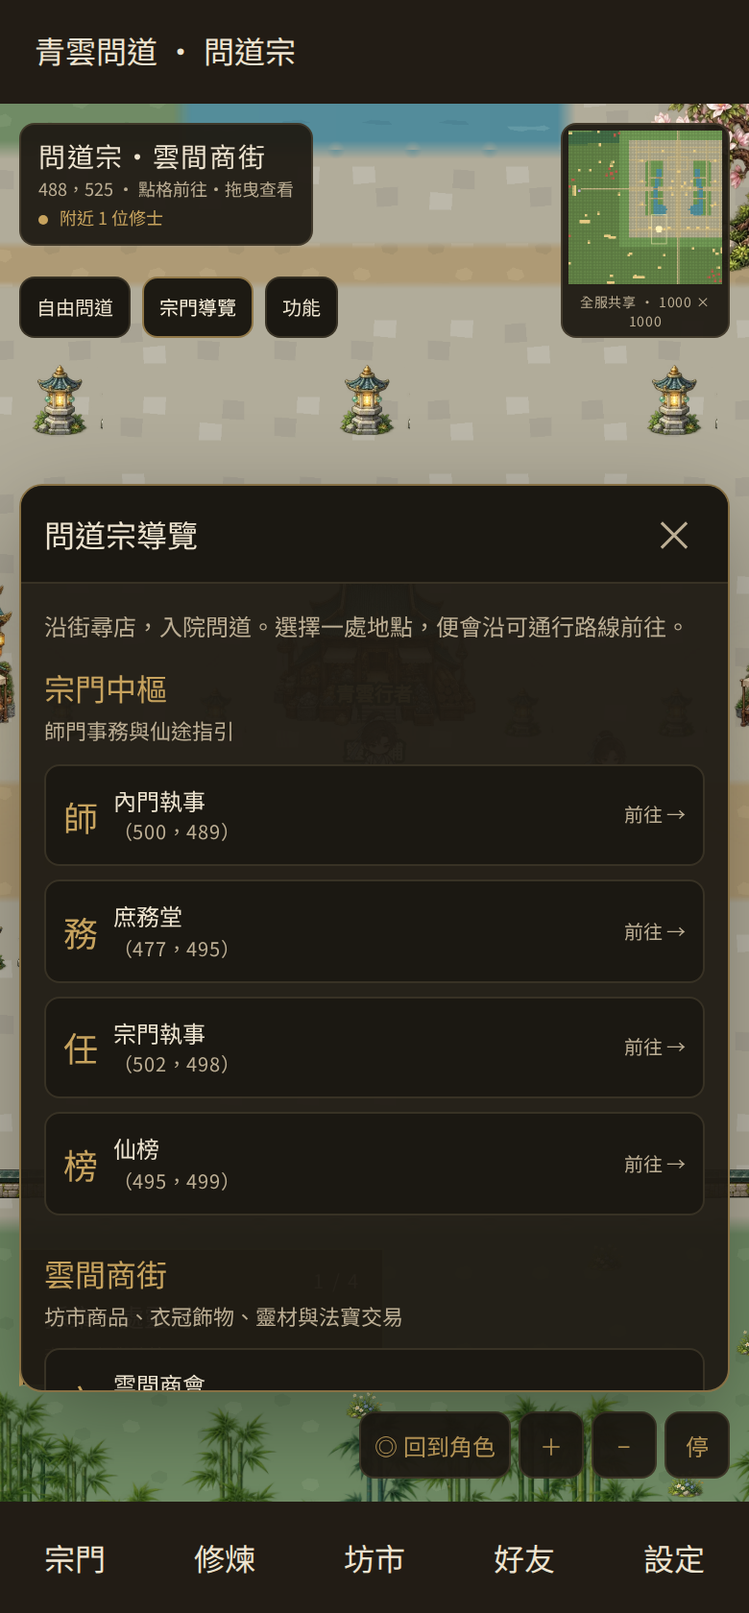
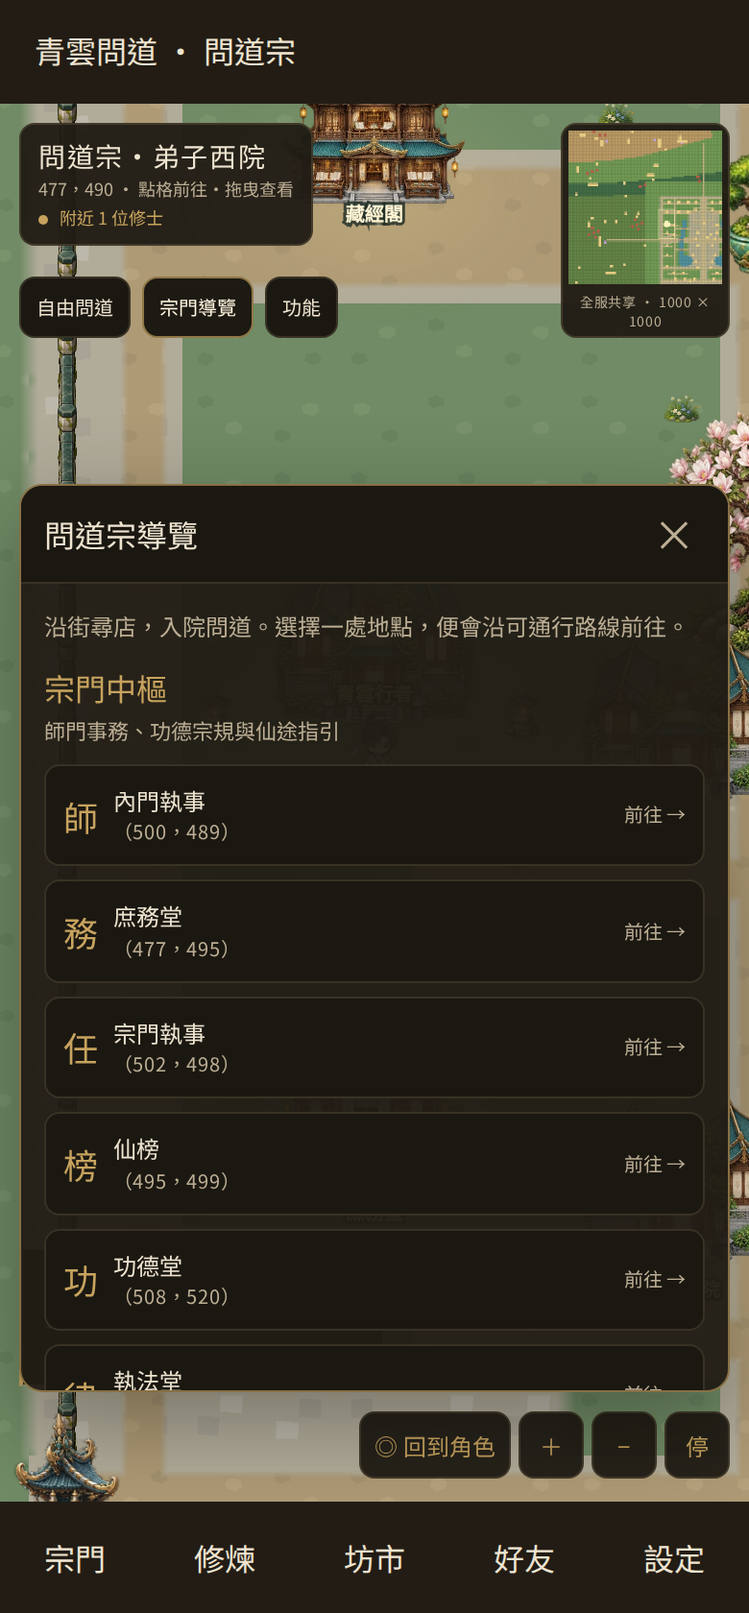
feat(world): complete sect services and compact residential courts
Add medical, merit, production and heritage facilities with real service entries. Compact the sect to 55x55 tiles and fill empty courts with 24 disciple houses, connected door paths and landscaped lawns. Preserve the main square, four gates, streams and original service locations.

Validation: 1,890 tests passed; desktop, 390px and 320px browser checks cover shop filters, medical and merit arrivals, commissions, and housing services. Uploaded source and review images match the tested local tree exactly.

diff --git a/public/world-simulator.html b/public/world-simulator.html
@@ -15,7 +15,7 @@
   const SIZE=1000,CHUNK_SIZE=32,CHUNK_COUNT=Math.ceil(SIZE/CHUNK_SIZE),STEP_MS=220,VISION_RADIUS=15;
   const GENERATOR_VERSION='qingyun-seeded-v2',DEFAULT_SEED='qingyun-2026';
   const SPAWN=Object.freeze({x:Math.floor(SIZE/2),y:Math.floor(SIZE/2)}),DIRS=Object.freeze([[0,1],[1,0],[0,-1],[-1,0]]);
-  const CITY_RADIUS=30,SAFE_RADIUS=36,OUTSKIRTS=Object.freeze({x:SPAWN.x+44,y:SPAWN.y-64,w:48,h:48});
+  const CITY_RADIUS=27,SAFE_RADIUS=36,OUTSKIRTS=Object.freeze({x:SPAWN.x+44,y:SPAWN.y-64,w:48,h:48});
   // Shared architectural footprints use tile coordinates; painted roofs and
   // canopies may overhang them. Existing functional buildings keep their IDs
   // and positions, so saved interactions still lead to the same doors.
@@ -40,17 +40,42 @@
     {id:'disciple-residence',name:'弟子居所',dx:-23,dy:9,artCell:7,entry:'residence',icon:'居',description:'整理行囊與儀容，設定這一趟修行想探索的學問。'},
     {id:'teahouse',name:'聽雨茶樓',dx:23,dy:9,artCell:6,entry:'friends',icon:'茶',description:'邀道友品茶、交流，約好下一次切磋與秘境之行。'},
     {id:'lecture-hall',name:'傳道堂',dx:-10,dy:-24,artCell:5,entry:'practice',icon:'道',description:'隨時入座問道，在一問一答之間積累自己的修為。'},
-    {id:'sect-storehouse',name:'宗門庫房',dx:10,dy:-24,artCell:1,entry:'bag',icon:'倉',description:'查看材料與法寶收藏，為煉器與遠行備齊行囊。'}
-  ].map(p=>Object.freeze({...p,x:SPAWN.x+p.dx,y:SPAWN.y+p.dy,kind:'building',town:true,footprint:Object.freeze({x:p.dx-1,y:p.dy-1,w:3,h:2})})));
+    {id:'sect-storehouse',name:'宗門庫房',dx:10,dy:-24,artCell:1,entry:'bag',icon:'倉',description:'查看材料與法寶收藏，為煉器與遠行備齊行囊。'},
+    {id:'infirmary',name:'回春醫館',dx:8,dy:-10,artCell:4,entry:'facility:infirmary',icon:'醫',description:'藥香與流水相伴，醫修照看靜養的弟子，叮囑出門前先整理修行。',services:[['core','整理修行'],['bag','查看隨身物品']]},
+    {id:'merit-hall',name:'功德堂',dx:8,dy:20,artCell:8,entry:'facility:merit-hall',icon:'功',description:'功德簿記下弟子歷練與師門委託，完成後可在原任務視窗領取嘉獎。',services:[['commissions','查看委託與嘉獎'],['rank','查看仙榜']]},
+    {id:'discipline-hall',name:'執法堂',dx:19,dy:-4,artCell:8,entry:'facility:discipline-hall',icon:'律',description:'宗規有言：切磋須經同意，鬥法在論道台進行；宗內不可私鬥。',services:[['duel','前往鬥法'],['sect','查看宗門事務']]},
+    {id:'guest-house',name:'迎客館',dx:19,dy:3,artCell:7,entry:'facility:guest-house',icon:'客',description:'往來道友先在此歇腳，交換見聞，相約下一趟歷練。',services:[['friends','拜訪道友']]},
+    {id:'inner-residence',name:'內門別院',dx:-19,dy:-4,artCell:7,entry:'facility:inner-residence',icon:'院',description:'竹影掩映的清修院落，內門弟子在此閉關、溫書與參悟。',services:[['core','參悟金丹與元嬰'],['meditation','今日閉關']]},
+    {id:'spirit-fields',name:'靈田莊',dx:-19,dy:20,artCell:1,entry:'facility:spirit-fields',icon:'田',description:'農事弟子照料靈穀與宗門日常供給，田莊也打聽各地靈材行情。',services:[['market-material','查看靈材交易']]},
+    {id:'herb-garden',name:'百草圃',dx:19,dy:20,artCell:4,entry:'facility:herb-garden',icon:'藥',description:'藥修依時令養護靈草，藥圃、丹藥堂與醫館相互供應。',services:[['market-material','查看靈材交易'],['bag','查看修行行囊']]},
+    {id:'beast-court',name:'靈獸苑',dx:19,dy:-17,artCell:7,entry:'facility:beast-court',icon:'獸',description:'馴養弟子照看靈禽與馱獸，道友們常在此集合，再一道出宗歷練。',services:[['friends','邀約道友'],['raid','相約秘境歷練']]},
+    {id:'ancestor-hall',name:'祖師祠',dx:-5,dy:-24,artCell:8,entry:'facility:ancestor-hall',icon:'祖',description:'香火供奉歷代祖師，石碑記下問道宗傳承：勤學、互助、不欺同門。',services:[['sect','查看宗門事務'],['practice','研讀問道']]},
+    {id:'observatory',name:'觀星臺',dx:5,dy:-24,artCell:5,entry:'facility:observatory',icon:'星',description:'夜觀星象、白日參道，星盤映照修士的參悟之路。',services:[['core','參悟修行']]},
+    {id:'array-hall',name:'護宗陣堂',dx:-4,dy:17,artCell:8,entry:'facility:array-hall',icon:'陣',description:'陣師巡查四門靈脈，維持護宗大陣，也指引弟子前往秘境。',services:[['raid','查看團本秘境']]},
+    {id:'watch-hall',name:'巡守堂',dx:4,dy:17,artCell:8,entry:'facility:watch-hall',icon:'衛',description:'巡守弟子交接四門路線，出宗前可先查看歷練委託。',services:[['commissions','查看宗門委託'],['quest','查看仙途指引']]}
+  ].map(p=>Object.freeze({...p,...(p.services?{services:Object.freeze(p.services.map(s=>Object.freeze(s)))}:{}),x:SPAWN.x+p.dx,y:SPAWN.y+p.dy,kind:'building',town:true,footprint:Object.freeze({x:p.dx-1,y:p.dy-1,w:3,h:2})})));
+  // Paired residential courts occupy the former empty paving. Share their
+  // solid bases and door approaches with the authority, just like shops.
+  const SECT_HOUSING=Object.freeze([
+    [16,-24],[22,-24],[10,-18],[16,-18],[19,-10],[23,-11],
+    [23,3],[23,16],[7,9],[13,20],[5,13],[5,-19]
+  ].flatMap(([x,dy])=>[-1,1].map(side=>({dx:side*x,dy}))).map(({dx,dy},i)=>{
+    const id='sect-home-'+(dx<0?'west':'east')+'-'+Math.abs(dx)+'-'+(dy<0?'n':'s')+Math.abs(dy);
+    return Object.freeze({id,name:(dx<0?'西':'東')+'院弟子舍・'+(Math.floor(i/2)+1),dx,dy,x:SPAWN.x+dx,y:SPAWN.y+dy,kind:'building',town:true,housing:true,artCell:i%6===1?6:7,icon:'舍',entry:'facility:'+id,
+      description:'弟子們在此起居、溫書與整理行囊。屋前石徑連著鄰院，出門便可前往宗門各堂。',
+      services:Object.freeze([Object.freeze(['bag','整理行囊']),Object.freeze(['meditation','今日閉關'])]),
+      footprint:Object.freeze({x:dx-1,y:dy-1,w:3,h:2})});
+  }));
+  const SECT_BUILDINGS=Object.freeze([...SECT_FACILITIES,...SECT_HOUSING]);
   const SECT_DISTRICTS=Object.freeze([
-    {id:'affairs',name:'宗門中樞',detail:'師門事務與仙途指引',places:['sect-steward','commission-hall','quest','rank']},
-    {id:'market',name:'雲間商街',detail:'坊市商品、衣冠飾物、靈材與法寶交易',places:['market-hall','material-shop','avatar-shop','frame-shop','artifact-shop','recipe-shop']},
-    {id:'study',name:'傳道學宮',detail:'問道、藏經與閉關修行',places:['lecture-hall','scripture-library','meditation']},
-    {id:'craft',name:'丹器百工',detail:'丹藥、煉器、契器與庫藏',places:['alchemy-hall','forge','contract','sect-storehouse']},
-    {id:'living',name:'弟子生活',detail:'膳堂、居所與道友茶聚',places:['dining-hall','disciple-residence','teahouse','vault']},
-    {id:'adventure',name:'演武與歷練',detail:'論道切磋與秘境同行',places:['duel','raid']}
+    {id:'affairs',name:'宗門中樞',detail:'師門事務、功德宗規與仙途指引',places:['sect-steward','commission-hall','quest','rank','merit-hall','discipline-hall']},
+    {id:'market',name:'雲間商街',detail:'坊市商品、衣冠飾物、靈材與法寶交易',places:['market-hall','material-shop','avatar-shop','frame-shop','artifact-shop','recipe-shop','market-keeper']},
+    {id:'study',name:'傳道學宮',detail:'問道、藏經、醫藥與閉關修行',places:['lecture-hall','scripture-library','meditation','infirmary']},
+    {id:'craft',name:'丹器百工',detail:'丹藥、煉器、契器、靈田藥圃與靈獸供給',places:['alchemy-hall','forge','contract','sect-storehouse','spirit-fields','herb-garden','beast-court']},
+    {id:'living',name:'弟子生活',detail:'膳堂、居所、弟子住宅群、迎賓與道友茶聚',places:['dining-hall','disciple-residence','teahouse','vault','tea-host','guest-house','inner-residence','sect-home-west-23-n11','sect-home-east-23-s16']},
+    {id:'adventure',name:'祖庭與歷練',detail:'祖師傳承、觀星、護宗巡守與秘境同行',places:['duel','raid','ancestor-hall','observatory','array-hall','watch-hall']}
   ].map(p=>Object.freeze({...p,places:Object.freeze(p.places)})));
-  const SECT_FOOTPRINTS=Object.freeze([...SECT_LANDMARKS,...SECT_FACILITIES].map(p=>p.footprint));
+  const SECT_FOOTPRINTS=Object.freeze([...SECT_LANDMARKS,...SECT_BUILDINGS].map(p=>p.footprint));
   function sectWater(dx,dy){
     const ax=Math.abs(dx),centre=13+Math.round(Math.sin((dy+4)/7)*1.4);
     return dy>=-12&&dy<=16&&Math.abs(ax-centre)<=1||((ax-11)/4)**2+((dy-13)/3.4)**2<=1;
@@ -62,8 +87,9 @@
     // wings; their marble crossings are genuine walkable bridge terrain.
     if(sectWater(dx,dy))return [0,-7,6].includes(dy)?'bridge':'water';
     if(ax<=1||ay<=1||ax===18||ay===18||ax===26||ay===26||[-23,25].includes(dy)&&ax<=26||
-      SECT_FACILITIES.some(p=>dy===p.dy+1&&Math.abs(dx-p.dx)<=3)||[-7,6].includes(dy)&&ax>=9&&ax<=18||
+      SECT_BUILDINGS.some(p=>dy===p.dy+1&&Math.abs(dx-p.dx)<=3)||[-7,6].includes(dy)&&ax>=9&&ax<=18||
       dy===-12&&ax<=6||ax===6&&dy>=-20&&dy<=-12||dy===-20&&ax<=6)return 'road';
+    if(ax>=21&&ax<=25&&ay>=3&&ay<=25||((dy>=-25&&dy<=-18)||(dy>=19&&dy<=24))&&ax>=3&&ax<=25)return 'grass';
     if(ax>=10&&ax<=20&&dy>=-17&&dy<=16)return 'grass';
     return 'courtyard';
   }
@@ -129,7 +155,7 @@
   ].map(Object.freeze));
   const STARTER_OBJECTS=Object.freeze([
     ...LOCAL_OBJECTS.map(o=>Object.freeze({...o,...(['building','npc'].includes(o.kind)?townPoint(o.x,o.y):starterPoint(o.x,o.y)),...(o.kind==='monster'?{species:o.name,biome:o.id.startsWith('wolf')?'bamboo':'mountain',habitatId:'starter:'+o.name}:{} )})),
-    ...SECT_FACILITIES,
+    ...SECT_BUILDINGS,
     Object.freeze({id:'sect-steward',x:SPAWN.x,y:SPAWN.y-11,kind:'npc',name:'內門執事',icon:'師',entry:'commissions',description:'師門日常、每週修行與宗門委託，都可向執事詢問。'}),
     Object.freeze({id:'market-keeper',x:SPAWN.x-9,y:SPAWN.y+25,kind:'npc',name:'坊市掌櫃',icon:'商',entry:'market',description:'想逛坊市、找道友交易，或管理自己的寄售商品，都可來問掌櫃。'}),
     Object.freeze({id:'tea-host',x:SPAWN.x+21,y:SPAWN.y+10,kind:'npc',name:'茶樓知客',icon:'茶',entry:'friends',description:'一盞清茶會道友，邀朋友來宗門裡走走。'})
@@ -374,7 +400,7 @@ return TERRAIN;})();
     const zone=p=>Math.max(Math.abs(p.x-SPAWN.x),Math.abs(p.y-SPAWN.y))<=CITY_RADIUS?
       '問道宗'+(p.y>=SPAWN.y+20?'・雲間商街':p.y<=SPAWN.y-21?'・傳道學宮':p.x<=SPAWN.x-21?'・弟子西院':p.x>=SPAWN.x+21?'・百工東院':''):
       inSafeArea(p.x,p.y)?'問道宗外・平原':inOutskirts(p.x,p.y)?(p.x>OUTSKIRTS.x+29&&p.y<OUTSKIRTS.y+20?'古陣山口':'青竹林'):LABELS[terrain(Math.floor(p.x),Math.floor(p.y))]+' · '+TIERS[tierAt(p.x,p.y)].name+'域';
-    const api={SIZE,CHUNK_SIZE,CHUNK_COUNT,GENERATOR_VERSION,DEFAULT_SEED,VERSION:config.worldId,descriptor:config,STEP_MS,VISION_RADIUS,SPAWN,CITY_RADIUS,SAFE_RADIUS,SECT_LANDMARKS,SECT_FACILITIES,SECT_DISTRICTS,sectWater,sectTerrain,sectBlocked,OUTSKIRTS,starterPoint,townPoint,inSafeArea,DIRS,TYPES,COLORS,LABELS,TIERS,OBJECTS:STARTER_OBJECTS,
+    const api={SIZE,CHUNK_SIZE,CHUNK_COUNT,GENERATOR_VERSION,DEFAULT_SEED,VERSION:config.worldId,descriptor:config,STEP_MS,VISION_RADIUS,SPAWN,CITY_RADIUS,SAFE_RADIUS,SECT_LANDMARKS,SECT_FACILITIES,SECT_HOUSING,SECT_DISTRICTS,sectWater,sectTerrain,sectBlocked,OUTSKIRTS,starterPoint,townPoint,inSafeArea,DIRS,TYPES,COLORS,LABELS,TIERS,OBJECTS:STARTER_OBJECTS,
       key,index,inside,distance,same,hash,seedHash,chunkKey,validChunk,normalizeExplored,mergeExplored,fullExplored,known,reveal,initialExplored,sample,pathTo,climate,baseTerrain,tierAt,chunk,objectsIn,objectAt,object,terrain,walkable,reachable,plan,approach,safePosition,redirect,zone,installPatches,
       patchVersions:()=>Object.fromEntries([...patches].map(([k,v])=>[k,v.revision])),get patchRevision(){return patchRevision;},get cachedChunks(){return cache.size;}};
     return Object.freeze(api);

diff --git a/public/world/world-core.js b/public/world/world-core.js
@@ -4,7 +4,7 @@
   const SIZE=1000,CHUNK_SIZE=32,CHUNK_COUNT=Math.ceil(SIZE/CHUNK_SIZE),STEP_MS=220,VISION_RADIUS=15;
   const GENERATOR_VERSION='qingyun-seeded-v2',DEFAULT_SEED='qingyun-2026';
   const SPAWN=Object.freeze({x:Math.floor(SIZE/2),y:Math.floor(SIZE/2)}),DIRS=Object.freeze([[0,1],[1,0],[0,-1],[-1,0]]);
-  const CITY_RADIUS=30,SAFE_RADIUS=36,OUTSKIRTS=Object.freeze({x:SPAWN.x+44,y:SPAWN.y-64,w:48,h:48});
+  const CITY_RADIUS=27,SAFE_RADIUS=36,OUTSKIRTS=Object.freeze({x:SPAWN.x+44,y:SPAWN.y-64,w:48,h:48});
   // Shared architectural footprints use tile coordinates; painted roofs and
   // canopies may overhang them. Existing functional buildings keep their IDs
   // and positions, so saved interactions still lead to the same doors.
@@ -29,17 +29,42 @@
     {id:'disciple-residence',name:'弟子居所',dx:-23,dy:9,artCell:7,entry:'residence',icon:'居',description:'整理行囊與儀容，設定這一趟修行想探索的學問。'},
     {id:'teahouse',name:'聽雨茶樓',dx:23,dy:9,artCell:6,entry:'friends',icon:'茶',description:'邀道友品茶、交流，約好下一次切磋與秘境之行。'},
     {id:'lecture-hall',name:'傳道堂',dx:-10,dy:-24,artCell:5,entry:'practice',icon:'道',description:'隨時入座問道，在一問一答之間積累自己的修為。'},
-    {id:'sect-storehouse',name:'宗門庫房',dx:10,dy:-24,artCell:1,entry:'bag',icon:'倉',description:'查看材料與法寶收藏，為煉器與遠行備齊行囊。'}
-  ].map(p=>Object.freeze({...p,x:SPAWN.x+p.dx,y:SPAWN.y+p.dy,kind:'building',town:true,footprint:Object.freeze({x:p.dx-1,y:p.dy-1,w:3,h:2})})));
+    {id:'sect-storehouse',name:'宗門庫房',dx:10,dy:-24,artCell:1,entry:'bag',icon:'倉',description:'查看材料與法寶收藏，為煉器與遠行備齊行囊。'},
+    {id:'infirmary',name:'回春醫館',dx:8,dy:-10,artCell:4,entry:'facility:infirmary',icon:'醫',description:'藥香與流水相伴，醫修照看靜養的弟子，叮囑出門前先整理修行。',services:[['core','整理修行'],['bag','查看隨身物品']]},
+    {id:'merit-hall',name:'功德堂',dx:8,dy:20,artCell:8,entry:'facility:merit-hall',icon:'功',description:'功德簿記下弟子歷練與師門委託，完成後可在原任務視窗領取嘉獎。',services:[['commissions','查看委託與嘉獎'],['rank','查看仙榜']]},
+    {id:'discipline-hall',name:'執法堂',dx:19,dy:-4,artCell:8,entry:'facility:discipline-hall',icon:'律',description:'宗規有言：切磋須經同意，鬥法在論道台進行；宗內不可私鬥。',services:[['duel','前往鬥法'],['sect','查看宗門事務']]},
+    {id:'guest-house',name:'迎客館',dx:19,dy:3,artCell:7,entry:'facility:guest-house',icon:'客',description:'往來道友先在此歇腳，交換見聞，相約下一趟歷練。',services:[['friends','拜訪道友']]},
+    {id:'inner-residence',name:'內門別院',dx:-19,dy:-4,artCell:7,entry:'facility:inner-residence',icon:'院',description:'竹影掩映的清修院落，內門弟子在此閉關、溫書與參悟。',services:[['core','參悟金丹與元嬰'],['meditation','今日閉關']]},
+    {id:'spirit-fields',name:'靈田莊',dx:-19,dy:20,artCell:1,entry:'facility:spirit-fields',icon:'田',description:'農事弟子照料靈穀與宗門日常供給，田莊也打聽各地靈材行情。',services:[['market-material','查看靈材交易']]},
+    {id:'herb-garden',name:'百草圃',dx:19,dy:20,artCell:4,entry:'facility:herb-garden',icon:'藥',description:'藥修依時令養護靈草，藥圃、丹藥堂與醫館相互供應。',services:[['market-material','查看靈材交易'],['bag','查看修行行囊']]},
+    {id:'beast-court',name:'靈獸苑',dx:19,dy:-17,artCell:7,entry:'facility:beast-court',icon:'獸',description:'馴養弟子照看靈禽與馱獸，道友們常在此集合，再一道出宗歷練。',services:[['friends','邀約道友'],['raid','相約秘境歷練']]},
+    {id:'ancestor-hall',name:'祖師祠',dx:-5,dy:-24,artCell:8,entry:'facility:ancestor-hall',icon:'祖',description:'香火供奉歷代祖師，石碑記下問道宗傳承：勤學、互助、不欺同門。',services:[['sect','查看宗門事務'],['practice','研讀問道']]},
+    {id:'observatory',name:'觀星臺',dx:5,dy:-24,artCell:5,entry:'facility:observatory',icon:'星',description:'夜觀星象、白日參道，星盤映照修士的參悟之路。',services:[['core','參悟修行']]},
+    {id:'array-hall',name:'護宗陣堂',dx:-4,dy:17,artCell:8,entry:'facility:array-hall',icon:'陣',description:'陣師巡查四門靈脈，維持護宗大陣，也指引弟子前往秘境。',services:[['raid','查看團本秘境']]},
+    {id:'watch-hall',name:'巡守堂',dx:4,dy:17,artCell:8,entry:'facility:watch-hall',icon:'衛',description:'巡守弟子交接四門路線，出宗前可先查看歷練委託。',services:[['commissions','查看宗門委託'],['quest','查看仙途指引']]}
+  ].map(p=>Object.freeze({...p,...(p.services?{services:Object.freeze(p.services.map(s=>Object.freeze(s)))}:{}),x:SPAWN.x+p.dx,y:SPAWN.y+p.dy,kind:'building',town:true,footprint:Object.freeze({x:p.dx-1,y:p.dy-1,w:3,h:2})})));
+  // Paired residential courts occupy the former empty paving. Share their
+  // solid bases and door approaches with the authority, just like shops.
+  const SECT_HOUSING=Object.freeze([
+    [16,-24],[22,-24],[10,-18],[16,-18],[19,-10],[23,-11],
+    [23,3],[23,16],[7,9],[13,20],[5,13],[5,-19]
+  ].flatMap(([x,dy])=>[-1,1].map(side=>({dx:side*x,dy}))).map(({dx,dy},i)=>{
+    const id='sect-home-'+(dx<0?'west':'east')+'-'+Math.abs(dx)+'-'+(dy<0?'n':'s')+Math.abs(dy);
+    return Object.freeze({id,name:(dx<0?'西':'東')+'院弟子舍・'+(Math.floor(i/2)+1),dx,dy,x:SPAWN.x+dx,y:SPAWN.y+dy,kind:'building',town:true,housing:true,artCell:i%6===1?6:7,icon:'舍',entry:'facility:'+id,
+      description:'弟子們在此起居、溫書與整理行囊。屋前石徑連著鄰院，出門便可前往宗門各堂。',
+      services:Object.freeze([Object.freeze(['bag','整理行囊']),Object.freeze(['meditation','今日閉關'])]),
+      footprint:Object.freeze({x:dx-1,y:dy-1,w:3,h:2})});
+  }));
+  const SECT_BUILDINGS=Object.freeze([...SECT_FACILITIES,...SECT_HOUSING]);
   const SECT_DISTRICTS=Object.freeze([
-    {id:'affairs',name:'宗門中樞',detail:'師門事務與仙途指引',places:['sect-steward','commission-hall','quest','rank']},
-    {id:'market',name:'雲間商街',detail:'坊市商品、衣冠飾物、靈材與法寶交易',places:['market-hall','material-shop','avatar-shop','frame-shop','artifact-shop','recipe-shop']},
-    {id:'study',name:'傳道學宮',detail:'問道、藏經與閉關修行',places:['lecture-hall','scripture-library','meditation']},
-    {id:'craft',name:'丹器百工',detail:'丹藥、煉器、契器與庫藏',places:['alchemy-hall','forge','contract','sect-storehouse']},
-    {id:'living',name:'弟子生活',detail:'膳堂、居所與道友茶聚',places:['dining-hall','disciple-residence','teahouse','vault']},
-    {id:'adventure',name:'演武與歷練',detail:'論道切磋與秘境同行',places:['duel','raid']}
+    {id:'affairs',name:'宗門中樞',detail:'師門事務、功德宗規與仙途指引',places:['sect-steward','commission-hall','quest','rank','merit-hall','discipline-hall']},
+    {id:'market',name:'雲間商街',detail:'坊市商品、衣冠飾物、靈材與法寶交易',places:['market-hall','material-shop','avatar-shop','frame-shop','artifact-shop','recipe-shop','market-keeper']},
+    {id:'study',name:'傳道學宮',detail:'問道、藏經、醫藥與閉關修行',places:['lecture-hall','scripture-library','meditation','infirmary']},
+    {id:'craft',name:'丹器百工',detail:'丹藥、煉器、契器、靈田藥圃與靈獸供給',places:['alchemy-hall','forge','contract','sect-storehouse','spirit-fields','herb-garden','beast-court']},
+    {id:'living',name:'弟子生活',detail:'膳堂、居所、弟子住宅群、迎賓與道友茶聚',places:['dining-hall','disciple-residence','teahouse','vault','tea-host','guest-house','inner-residence','sect-home-west-23-n11','sect-home-east-23-s16']},
+    {id:'adventure',name:'祖庭與歷練',detail:'祖師傳承、觀星、護宗巡守與秘境同行',places:['duel','raid','ancestor-hall','observatory','array-hall','watch-hall']}
   ].map(p=>Object.freeze({...p,places:Object.freeze(p.places)})));
-  const SECT_FOOTPRINTS=Object.freeze([...SECT_LANDMARKS,...SECT_FACILITIES].map(p=>p.footprint));
+  const SECT_FOOTPRINTS=Object.freeze([...SECT_LANDMARKS,...SECT_BUILDINGS].map(p=>p.footprint));
   function sectWater(dx,dy){
     const ax=Math.abs(dx),centre=13+Math.round(Math.sin((dy+4)/7)*1.4);
     return dy>=-12&&dy<=16&&Math.abs(ax-centre)<=1||((ax-11)/4)**2+((dy-13)/3.4)**2<=1;
@@ -51,8 +76,9 @@
     // wings; their marble crossings are genuine walkable bridge terrain.
     if(sectWater(dx,dy))return [0,-7,6].includes(dy)?'bridge':'water';
     if(ax<=1||ay<=1||ax===18||ay===18||ax===26||ay===26||[-23,25].includes(dy)&&ax<=26||
-      SECT_FACILITIES.some(p=>dy===p.dy+1&&Math.abs(dx-p.dx)<=3)||[-7,6].includes(dy)&&ax>=9&&ax<=18||
+      SECT_BUILDINGS.some(p=>dy===p.dy+1&&Math.abs(dx-p.dx)<=3)||[-7,6].includes(dy)&&ax>=9&&ax<=18||
       dy===-12&&ax<=6||ax===6&&dy>=-20&&dy<=-12||dy===-20&&ax<=6)return 'road';
+    if(ax>=21&&ax<=25&&ay>=3&&ay<=25||((dy>=-25&&dy<=-18)||(dy>=19&&dy<=24))&&ax>=3&&ax<=25)return 'grass';
     if(ax>=10&&ax<=20&&dy>=-17&&dy<=16)return 'grass';
     return 'courtyard';
   }
@@ -118,7 +144,7 @@
   ].map(Object.freeze));
   const STARTER_OBJECTS=Object.freeze([
     ...LOCAL_OBJECTS.map(o=>Object.freeze({...o,...(['building','npc'].includes(o.kind)?townPoint(o.x,o.y):starterPoint(o.x,o.y)),...(o.kind==='monster'?{species:o.name,biome:o.id.startsWith('wolf')?'bamboo':'mountain',habitatId:'starter:'+o.name}:{} )})),
-    ...SECT_FACILITIES,
+    ...SECT_BUILDINGS,
     Object.freeze({id:'sect-steward',x:SPAWN.x,y:SPAWN.y-11,kind:'npc',name:'內門執事',icon:'師',entry:'commissions',description:'師門日常、每週修行與宗門委託，都可向執事詢問。'}),
     Object.freeze({id:'market-keeper',x:SPAWN.x-9,y:SPAWN.y+25,kind:'npc',name:'坊市掌櫃',icon:'商',entry:'market',description:'想逛坊市、找道友交易，或管理自己的寄售商品，都可來問掌櫃。'}),
     Object.freeze({id:'tea-host',x:SPAWN.x+21,y:SPAWN.y+10,kind:'npc',name:'茶樓知客',icon:'茶',entry:'friends',description:'一盞清茶會道友，邀朋友來宗門裡走走。'})
@@ -363,7 +389,7 @@ return TERRAIN;})();
     const zone=p=>Math.max(Math.abs(p.x-SPAWN.x),Math.abs(p.y-SPAWN.y))<=CITY_RADIUS?
       '問道宗'+(p.y>=SPAWN.y+20?'・雲間商街':p.y<=SPAWN.y-21?'・傳道學宮':p.x<=SPAWN.x-21?'・弟子西院':p.x>=SPAWN.x+21?'・百工東院':''):
       inSafeArea(p.x,p.y)?'問道宗外・平原':inOutskirts(p.x,p.y)?(p.x>OUTSKIRTS.x+29&&p.y<OUTSKIRTS.y+20?'古陣山口':'青竹林'):LABELS[terrain(Math.floor(p.x),Math.floor(p.y))]+' · '+TIERS[tierAt(p.x,p.y)].name+'域';
-    const api={SIZE,CHUNK_SIZE,CHUNK_COUNT,GENERATOR_VERSION,DEFAULT_SEED,VERSION:config.worldId,descriptor:config,STEP_MS,VISION_RADIUS,SPAWN,CITY_RADIUS,SAFE_RADIUS,SECT_LANDMARKS,SECT_FACILITIES,SECT_DISTRICTS,sectWater,sectTerrain,sectBlocked,OUTSKIRTS,starterPoint,townPoint,inSafeArea,DIRS,TYPES,COLORS,LABELS,TIERS,OBJECTS:STARTER_OBJECTS,
+    const api={SIZE,CHUNK_SIZE,CHUNK_COUNT,GENERATOR_VERSION,DEFAULT_SEED,VERSION:config.worldId,descriptor:config,STEP_MS,VISION_RADIUS,SPAWN,CITY_RADIUS,SAFE_RADIUS,SECT_LANDMARKS,SECT_FACILITIES,SECT_HOUSING,SECT_DISTRICTS,sectWater,sectTerrain,sectBlocked,OUTSKIRTS,starterPoint,townPoint,inSafeArea,DIRS,TYPES,COLORS,LABELS,TIERS,OBJECTS:STARTER_OBJECTS,
       key,index,inside,distance,same,hash,seedHash,chunkKey,validChunk,normalizeExplored,mergeExplored,fullExplored,known,reveal,initialExplored,sample,pathTo,climate,baseTerrain,tierAt,chunk,objectsIn,objectAt,object,terrain,walkable,reachable,plan,approach,safePosition,redirect,zone,installPatches,
       patchVersions:()=>Object.fromEntries([...patches].map(([k,v])=>[k,v.revision])),get patchRevision(){return patchRevision;},get cachedChunks(){return cache.size;}};
     return Object.freeze(api);

diff --git a/public/world/world-scenery.js b/public/world/world-scenery.js
@@ -108,7 +108,7 @@
       if(t==='courtyard'&&Math.abs(dy)===2&&Math.abs(dx)<=18&&Math.abs(dx)%4===2)add('lantern',42);
       if(t==='courtyard'&&((Math.abs(dy)===r-1&&Math.abs(dx)===2)||(Math.abs(dx)===r-1&&Math.abs(dy)===2)))add('obelisk',43);
       if(t==='courtyard'&&((Math.abs(dy)===r-2&&Math.abs(dx)===3)||(Math.abs(dx)===r-2&&Math.abs(dy)===3)))add('banner',38);
-      if(t==='courtyard'&&dy===27&&Math.abs(dx)>=5&&Math.abs(dx)<=23&&Math.abs(dx)%6===5)add('lantern',34);
+      if(t==='courtyard'&&dy===W.CITY_RADIUS-1&&Math.abs(dx)>=5&&Math.abs(dx)<=23&&Math.abs(dx)%6===5)add('lantern',34);
       return items;
     }
     function sect(){
@@ -122,7 +122,7 @@
           add('sect-bridge-ew',dx,dy,190,105,.55,{layer:'ground',occludes:false,bridge:true});
         }
         for(const dy of [7,19])add(side<0?'sect-lion-right':'sect-lion-left',side*3,dy,74,86,.9);
-        for(const [dx,dy]of [[8,-13],[18,-12],[8,12],[18,4],[7,18]])add('sect-magnolia',side*dx,dy,128,142,.92);
+        for(const [dx,dy]of [[8,-13],[18,-12],[11,7],[16,3],[7,18]])add('sect-magnolia',side*dx,dy,128,142,.92);
         for(const dy of [-9,11])add('sect-censer',side*5,dy,80,88,.9);
         for(const [dx,dy]of [[9,12],[12,13],[10,15],[14,14]])add('sect-lotus',side*dx,dy,50,50,.5,{layer:'ground',occludes:false,water:true});
         // Small matching garden furniture keeps the broad lawns intentional.
@@ -147,7 +147,13 @@
       };
       if(o.town){
         add('lantern',-2,0,30);add('lantern',2,0,30);
-        if(o.artCell===1){add('logs',-2,1,30);add('ore',2,1,27);}
+        if(o.id==='spirit-fields'){
+          for(const x of [-2,2])for(const y of [0,2])add('herb',x,y,30);
+        }else if(o.id==='beast-court'){
+          add('sect-spirit-beast',-2,0,34);add('sect-spirit-beast',2,0,34);
+        }else if(['observatory','array-hall'].includes(o.id)){
+          add('crystals',-2,0,31);add('obelisk',2,0,35);
+        }else if(o.artCell===1){add('logs',-2,1,30);add('ore',2,1,27);}
         else if(o.artCell===2)add('weapons',2,1,30);
         else if([3,5].includes(o.artCell))add('scrolls',-2,1,28);
         else if(o.artCell===4){add('herb',-2,1,27);add('bonsai',2,1,29);}

diff --git a/public/world/world-view.js b/public/world/world-view.js
@@ -187,9 +187,9 @@ export class WorldView {
     this.panel('問道宗導覽',`<p class="ww-muted">沿街尋店，入院問道。選擇一處地點，便會沿可通行路線前往。</p><div class="ww-sect-guide">${W.SECT_DISTRICTS.map(d=>`<section><h3>${esc(d.name)}</h3><small>${esc(d.detail)}</small><div>${d.places.map(place=>W.object(place)).filter(Boolean).map(o=>`<button type="button" data-action="visit-place" data-place="${esc(o.id)}"><b>${esc(o.icon||'門')}</b><span>${esc(o.name)}<small>（${o.x}，${o.y}）</small></span><em>前往 →</em></button>`).join('')}</div></section>`).join('')}</div>`);
   }
   facilityPanel(entry){
-    const place=this.world.SECT_FACILITIES.find(o=>o.entry===entry);
+    const place=this.world.OBJECTS.find(o=>o.entry===entry&&o.kind==='building');
     if(!place)return false;
-    const choices={
+    const choices=place.services||{
       market:[['store','逛坊市商品'],['market-all','道友交易市集'],['market-mine','我的上架商品']],
       library:[['core','查閱金丹・元嬰・化神'],['history','回顧答題紀錄'],['practice','入座問道']],
       alchemy:[['bag','查看丹藥與行囊'],['core','前往金丹修行'],['refinery','前往煉器']],

diff --git a/public/world/world-renderer.js b/public/world/world-renderer.js
@@ -121,7 +121,7 @@ export class WorldRenderer {
     const direction=o.kind==='monster'?(o.nextMove?(o.nextMove.x>o.x?'east':o.nextMove.x<o.x?'west':o.nextMove.y<o.y?'north':o.nextMove.y>o.y?'south':o.direction||'south'):o.direction||Art.directions[this.world.hash(o.x,o.y,143)%4]):o.direction;
     const sprite=Art.object({...o,direction});
     if(this.imageSprite(sprite,x,y,claimed?.5:1))this.hitRegions.push({object:o,sprite,bounds:Art.bounds(o,sprite)});
-    if(showName&&(!o.veinId||o.veinAnchor))this.label(o.name+(o.level?' · '+o.level+'級':''),x,y+17,claimed?'#c9d3be':o.kind==='monster'?'#ffe2be':'#fff5d5',10);
+    if(showName&&(!o.housing||this.camera?.zoom>=1.3)&&(!o.veinId||o.veinAnchor))this.label(o.name+(o.level?' · '+o.level+'級':''),x,y+17,claimed?'#c9d3be':o.kind==='monster'?'#ffe2be':'#fff5d5',10);
   }
   sprite(actor,pos,at,self=false,showName=true){
     const c=this.ctx,x=(pos.x+.5)*TILE,y=(pos.y+.5)*TILE,img=this.images[actor.gender||'male'];

diff --git a/public/world/world-entry.js b/public/world/world-entry.js
@@ -12,6 +12,7 @@ const transport=createWorldTransport(authenticatedMainFetch);
 async function openEntry(entry,data={}){
   const toast=message=>window.showToast?.(message);
   if(entry==='sect-guide'){view?.sectGuide();return;}
+  if(entry.startsWith('facility:')){view?.facilityPanel(entry);return;}
   if(['market','library','alchemy','dining','residence'].includes(entry)){view?.facilityPanel(entry);return;}
   if(['store','store-avatar','store-frame'].includes(entry)){
     await window.switchToPage?.('page-store');document.getElementById('pm-view-shop')?.click();

diff --git a/public/world/world-art.js b/public/world/world-art.js
@@ -42,6 +42,7 @@
     return parts;
   }
   const scenery=p=>{
+    if(p.prop==='sect-spirit-beast')return sheet('creatures-atlas',19,5,p.size||34);
     if(p.prop==='sect-lotus')return {image:'sect-lotus',sx:0,sy:0,sw:256,sh:256,w:p.w||50,h:p.h||50,anchor:.5};
     if(p.prop==='sect-palace')return {image:'sect-palace',sx:0,sy:0,sw:1024,sh:768,w:p.w||360,h:p.h||270,anchor:p.anchor??.88};
     if(sectProps.includes(p.prop)){

diff --git a/docs/sect-town-services.md b/docs/sect-town-services.md
@@ -1,6 +1,8 @@
 # 問道宗生活街區
 
-宗門擴為 61 × 61 格，在原有庭園外圍增加 14 處可互動設施、內門執事、坊市掌櫃與茶樓知客。既有八個入口位置、溪流、橋樑與大殿保留。宗門導覽依六類用途列出地點，選取後使用原本的尋路、移動與抵達互動流程。
+宗門整理為 55 × 55 格，比原先 61 × 61 格收緊約 19% 面積；原有庭園內外保留 26 處可互動設施與三位執事知客，另加入 24 棟東西院弟子住宅填補空地。既有八個入口位置、溪流、橋樑與大殿保留。宗門導覽依六類用途列出 39 處代表地點，選取後使用原本的尋路、移動與抵達互動流程；每棟住宅也可直接點選、走到門口整理行囊或進入今日閉關。
+
+住宅成對分布在北側、東西側院與商街後方，外圈多餘鋪面改為院落草地，並由屋前小徑串連。主殿前廣場及南北、東西主軸留空通行。住宅名稱僅在放大至 1.3 倍以上時顯示，避免總覽被文字塞滿。住宅基座、道路與四面城牆使用同一份瀏覽器／伺服器資料，並維持原世界種子與存檔版本。
 
 | 設施 | 座標 | 服務 |
 | --- | --- | --- |
@@ -18,11 +20,23 @@
 | 聽雨茶樓 | 523,509 | 好友交流 |
 | 傳道堂 | 490,476 | 自由問道 |
 | 宗門庫房 | 510,476 | 既有寶庫 |
+| 回春醫館 | 508,490 | 金丹／元嬰修行、隨身物品 |
+| 功德堂 | 508,520 | 既有日常／每週／宗門委託與嘉獎、仙榜 |
+| 執法堂 | 519,496 | 宗規介紹、鬥法、宗門事務 |
+| 迎客館 | 519,503 | 好友交流 |
+| 內門別院 | 481,496 | 金丹／元嬰、今日閉關 |
+| 靈田莊 | 481,520 | 靈材交易 |
+| 百草圃 | 519,520 | 靈材交易、隨身物品 |
+| 靈獸苑 | 519,483 | 好友、團本秘境 |
+| 祖師祠 | 495,476 | 宗門傳承介紹、宗門事務、自由問道 |
+| 觀星臺 | 505,476 | 金丹／元嬰修行 |
+| 護宗陣堂 | 496,517 | 團本秘境 |
+| 巡守堂 | 504,517 | 宗門委託、仙途指引 |
 
-設施沿用現有購買、交易、修行與任務規則；本次不增加丹藥煉製、用膳回血、額外材料產出或新的貨幣。每棟新建築有 3 × 2 格實體基座與可到達的南側入口。建築圖集由內建 image_gen 生成，提示詞與打包規格見 `public/assets/world-map/ai/sect-town-prompts.md`。
+設施沿用現有購買、交易、修行與任務規則；本次不增加丹藥煉製、用膳回血、醫館治療、種田產出、靈獸養成或新的貨幣。靈田莊的藥草、靈獸苑的靈獸與陣堂晶石目前為場景裝飾。每棟新建築有 3 × 2 格實體基座與可到達的南側入口。建築圖集由內建 image_gen 生成，提示詞與打包規格見 `public/assets/world-map/ai/sect-town-prompts.md`。
 
 ## 驗證
 
-`tests/world-sect-town.test.cjs` 驗證所有設施可達、基座碰撞、圖集取樣、導覽與服務入口；`tests/world-api.test.cjs` 驗證抵達後由伺服器開啟入口、拒絕遠距離互動，並確認開啟設施不變更玩家貨幣或材料。
+`tests/world-sect-town.test.cjs` 驗證所有設施與住宅可從四門抵達、完整基座避開水域及其他建築、圖集取樣、39 處導覽與服務入口；`tests/world-api.test.cjs` 驗證抵達後由伺服器開啟入口、拒絕遠距離互動，並確認開啟設施不變更玩家貨幣或材料。
 
 `node scripts/capture-world-sect.cjs` 使用正式繪圖器檢查全景、商街、藏經閣與手機尺寸。`node scripts/capture-sect-town.cjs` 使用本機獨立測試帳號與資料，檢查 1200px、390px、320px 的導覽、實際尋路、抵達互動，以及開啟正確的既有商店分類；不連線到正式資料庫。可用 `SECT_TOWN_FONTS` 指定本機 `@fontsource/noto-sans-tc` 套件資料夾，`SECT_TOWN_BROWSER` 指定 Chromium 可執行檔。
